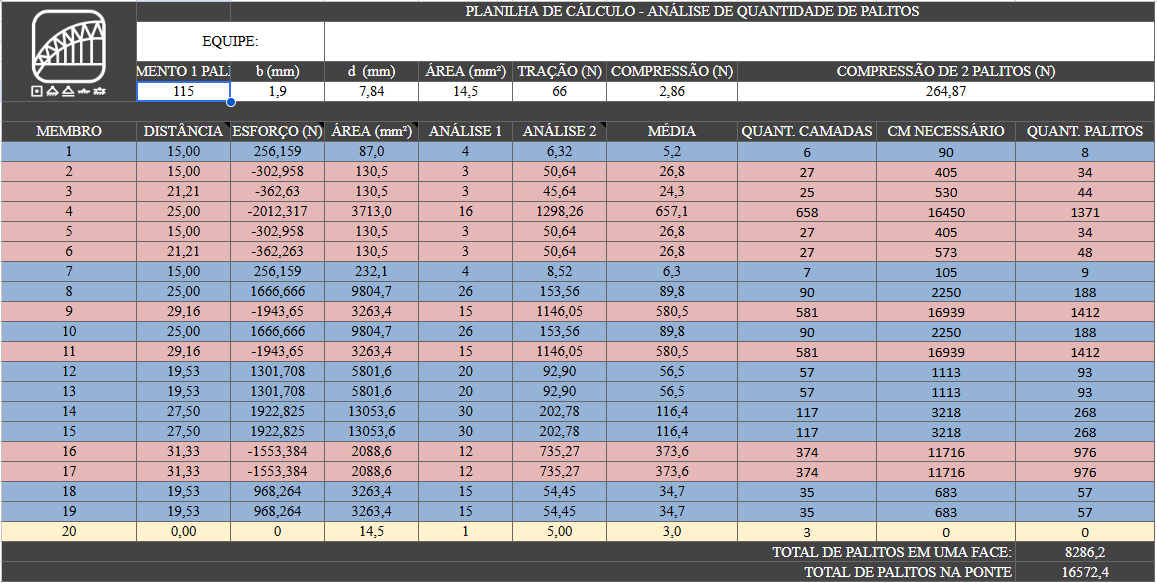
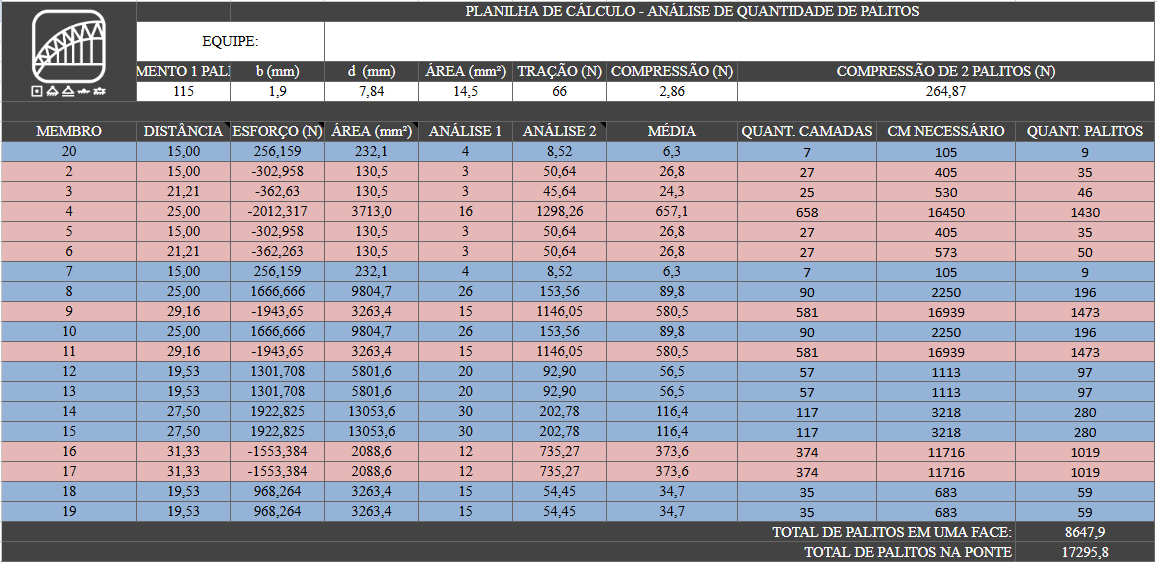
docs: adiciona conclusoes e trabalhos futuros

diff --git a/2-textuais/6-conclusao.tex b/2-textuais/6-conclusao.tex
@@ -1,4 +1,36 @@
 \chapter{Conclusões e Trabalhos Futuros}
 \label{chap:conclusoes-e-trabalhos-futuros}
 
-Parte final do texto na qual se apresentam as conclusões apoiadas no desenvolvimento do assunto. É a recapitulação sintética dos resultados obtidos. Pode apresentar recomendações e sugestões para pesquisas futuras.
+\section{Conclusões}
+\label{sec:conclusoes}
+
+Este trabalho teve como objetivo desenvolver uma ferramenta web capaz de interpretar modelos estruturais elaborados no FTOOL e auxiliar na análise e no pré-dimensionamento de pontes treliçadas de palitos de picolé, com aplicação voltada à Competição de Pontes com Palitos de Picolé (CP3) da Universidade Federal Rural do Semi-Árido. A solução desenvolvida integrou etapas anteriormente executadas de forma separada, desde a interpretação do arquivo estrutural até a apresentação das estimativas de material necessárias à composição das barras.
+
+Em relação à interpretação dos modelos, foi implementado um módulo capaz de realizar a leitura de arquivos FTL, identificar as informações estruturais e reconstruir a geometria e a conectividade dos elementos. Os testes realizados demonstraram a consistência desse procedimento para os casos avaliados, incluindo o modelo utilizado na apresentação dos resultados, composto por 10 nós e 19 barras. Também foi verificada a equivalência entre diferentes formas de leitura do arquivo, permitindo seu processamento diretamente em memória na aplicação web.
+
+A integração com a biblioteca anaStruct possibilitou a execução da análise estrutural a partir das informações interpretadas do FTOOL, com a obtenção de esforços internos, deslocamentos e reações de apoio. Na comparação dos esforços axiais do modelo analisado, submetido a um carregamento vertical de 2,00 kN em uma de suas faces, os resultados apresentaram diferenças absolutas não superiores a 0,001 N em relação aos valores exibidos pelo FTOOL. Essa correspondência constitui uma evidência da consistência da conversão e da análise numérica para o caso estudado.
+
+Quanto ao pré-dimensionamento, foram implementadas rotinas para avaliar barras submetidas à tração e à compressão, considerando critérios de resistência, estabilidade e composição construtiva. A ferramenta permite determinar a quantidade estimada de camadas de cada elemento e contabilizar os palitos comerciais necessários ao longo de seu comprimento.
+
+No modelo utilizado para a avaliação, o pré-dimensionamento resultou em uma soma de 154 camadas distribuídas entre as 19 barras, com estimativa de 430 palitos para uma face da ponte. Considerando duas faces idênticas, a estimativa correspondeu a 860 palitos, sem incluir elementos adicionais de ligação transversal ou perdas de fabricação. Esses resultados demonstraram a capacidade da implementação de produzir estimativas individualizadas de material a partir dos esforços obtidos na análise estrutural.
+
+A integração das rotinas em uma aplicação web permitiu reunir a importação do arquivo FTL, a visualização preliminar da geometria, a configuração dos parâmetros de cálculo e a consulta dos resultados em um único ambiente. A utilização do Pyodide possibilitou a execução das rotinas Python diretamente no navegador, enquanto o emprego de um Web Worker permitiu separar o processamento computacional das operações da interface.
+
+A comparação com uma planilha eletrônica preexistente evidenciou diferenças entre as formulações de pré-dimensionamento e os procedimentos de contabilização do material. Mesmo após a adoção do mesmo comprimento comercial de palito, as estimativas apresentaram diferenças expressivas, associadas aos critérios e às hipóteses empregados em cada abordagem. Esses resultados ressaltam a importância de explicitar os parâmetros e as formulações utilizados nas estimativas, não sendo possível interpretar a diferença numérica, isoladamente, como evidência de maior precisão de um dos procedimentos.
+
+Apesar dos resultados obtidos, a ferramenta apresenta limitações relacionadas à modelagem bidimensional, às propriedades mecânicas adotadas para os palitos e à representação simplificada das seções compostas. O pré-dimensionamento considera a atuação solidária entre as camadas e não contempla integralmente os efeitos das ligações, das emendas e das imperfeições construtivas. Além disso, não foi realizada uma campanha experimental destinada à validação das estimativas de resistência ou à previsão da carga de ruptura das pontes construídas.
+
+Dessa forma, considera-se que o objetivo geral do trabalho foi alcançado no escopo proposto, uma vez que foi desenvolvida uma ferramenta web funcional capaz de interpretar modelos do FTOOL, executar a análise estrutural e realizar o pré-dimensionamento de barras de palitos. A solução contribui para a integração das etapas computacionais envolvidas no projeto dessas estruturas e disponibiliza um recurso de apoio à análise e à estimativa de material no contexto da CP3.
+
+\section{Trabalhos futuros}
+\label{sec:trabalhos-futuros}
+
+Como continuidade deste trabalho, recomenda-se a realização de estudos experimentais destinados à caracterização das propriedades mecânicas dos palitos de picolé e das ligações utilizadas na construção das barras. Ensaios de tração, compressão e flambagem poderiam fornecer parâmetros mais representativos do material e permitir avaliar a adequação das hipóteses empregadas no pré-dimensionamento.
+
+Outra possibilidade consiste no aperfeiçoamento da representação das seções compostas, considerando a influência das emendas, da rigidez do adesivo e de possíveis deslocamentos relativos entre as camadas. Essa evolução permitiria investigar o comportamento dos elementos construídos com palitos colados de maneira mais próxima às condições reais de fabricação.
+
+Também se propõe a ampliação da análise para modelos tridimensionais, de modo a considerar simultaneamente as duas faces da ponte, os elementos de travamento transversal e a distribuição dos carregamentos entre os componentes da estrutura. Essa ampliação possibilitaria avaliar efeitos que não são representados integralmente pelos modelos planos utilizados neste trabalho.
+
+No âmbito computacional, a ferramenta poderia ser aprimorada para contemplar outros elementos e funcionalidades do formato FTL, além de ampliar as rotinas de verificação e os recursos de visualização dos resultados. A inclusão de mecanismos para comparação de diferentes configurações estruturais também permitiria apoiar a avaliação de alternativas de projeto.
+
+Por fim, recomenda-se a realização de estudos comparativos envolvendo pontes construídas e ensaiadas experimentalmente a partir de configurações previamente analisadas pela ferramenta. A comparação entre as estimativas computacionais, as quantidades efetivamente utilizadas e os modos de falha observados possibilitaria identificar limitações do modelo e orientar o aperfeiçoamento dos critérios de pré-dimensionamento.

diff --git a/2-textuais/5-resultados.tex b/2-textuais/5-resultados.tex
@@ -142,8 +142,8 @@ A Figura~\ref{fig:resultado-camadas} apresenta a distribuição das quantidades 
 
 \begin{figure}[H]
     \centering
-    \caption{Distribuição da quantidade de camadas
-    obtida pelo pré-dimensionamento da ponte.}
+    \caption{Distribuição das quantidades de palitos e
+    camadas obtidas no pré-dimensionamento da ponte.}
     \label{fig:resultado-camadas}
     \includegraphics[width=0.85\textwidth]
         {lib/figuras/resultado-camadas}

diff --git a/etapas.md b/etapas.md
@@ -1,6 +1,6 @@
 # Etapas do TCC
 
-Última atualização: 03/11/2026.
+Última atualização: 06/11/2026.
 
 Este arquivo serve como roteiro de execução do TCC. A ideia é consultar esta página antes de começar uma nova sessão de escrita para saber **o que fazer agora**, **o que ainda falta** e **quando uma etapa pode ser considerada concluída**.
 
@@ -46,9 +46,9 @@ O código é o meio utilizado para resolver o problema, não o objeto principal 
 
 ### Prioridade atual
 
-**Capítulo 5 — Resultados e discussão.**
+**Capítulo 6 — Conclusões e trabalhos futuros.**
 
-A redação do Capítulo 5 está em progresso. A próxima etapa é conferir os resultados apresentados com os arquivos de referência, os testes e a planilha utilizada na comparação. As pendências de revisão técnica e bibliográfica permanecem abertas para a revisão final.
+A versão inicial do Capítulo 6 foi redigida e está em revisão. A próxima etapa é confrontar suas conclusões com os objetivos e com os resultados apresentados no Capítulo 5. A conferência dos valores, dos testes e da planilha, assim como as pendências de revisão técnica e bibliográfica, permanece aberta.
 
 ### Acompanhamento
 
@@ -777,3 +777,9 @@ Se um trecho não responder claramente a nenhuma dessas perguntas, verificar se 
 - Acrescentados os resultados da interpretação FTL, da análise estrutural, do pré-dimensionamento e da aplicação web, com figuras e tabelas comparativas.
 - Incluída a comparação com a planilha de dimensionamento original e descrito o procedimento correspondente na metodologia.
 - Em progresso: revisão do Capítulo 5. Conferir valores, unidades e correspondência das barras com os arquivos de referência e a planilha; confrontar as afirmações sobre testes com seus resultados e manter explícitas as diferenças entre a análise de uma face e o ensaio da ponte completa.
+
+## 06/11/2026 — Redação das Conclusões
+
+- Redigida a versão inicial das conclusões e dos trabalhos futuros, reunindo os resultados apresentados, as limitações e as possibilidades de continuidade.
+- Atualizadas a legenda do resultado de pré-dimensionamento e a imagem da planilha comparativa no Capítulo 5.
+- Em progresso: revisão das conclusões. Conferir a correspondência de cada afirmação com os objetivos e as evidências do Capítulo 5, incluindo os parâmetros utilizados na comparação com a planilha.
